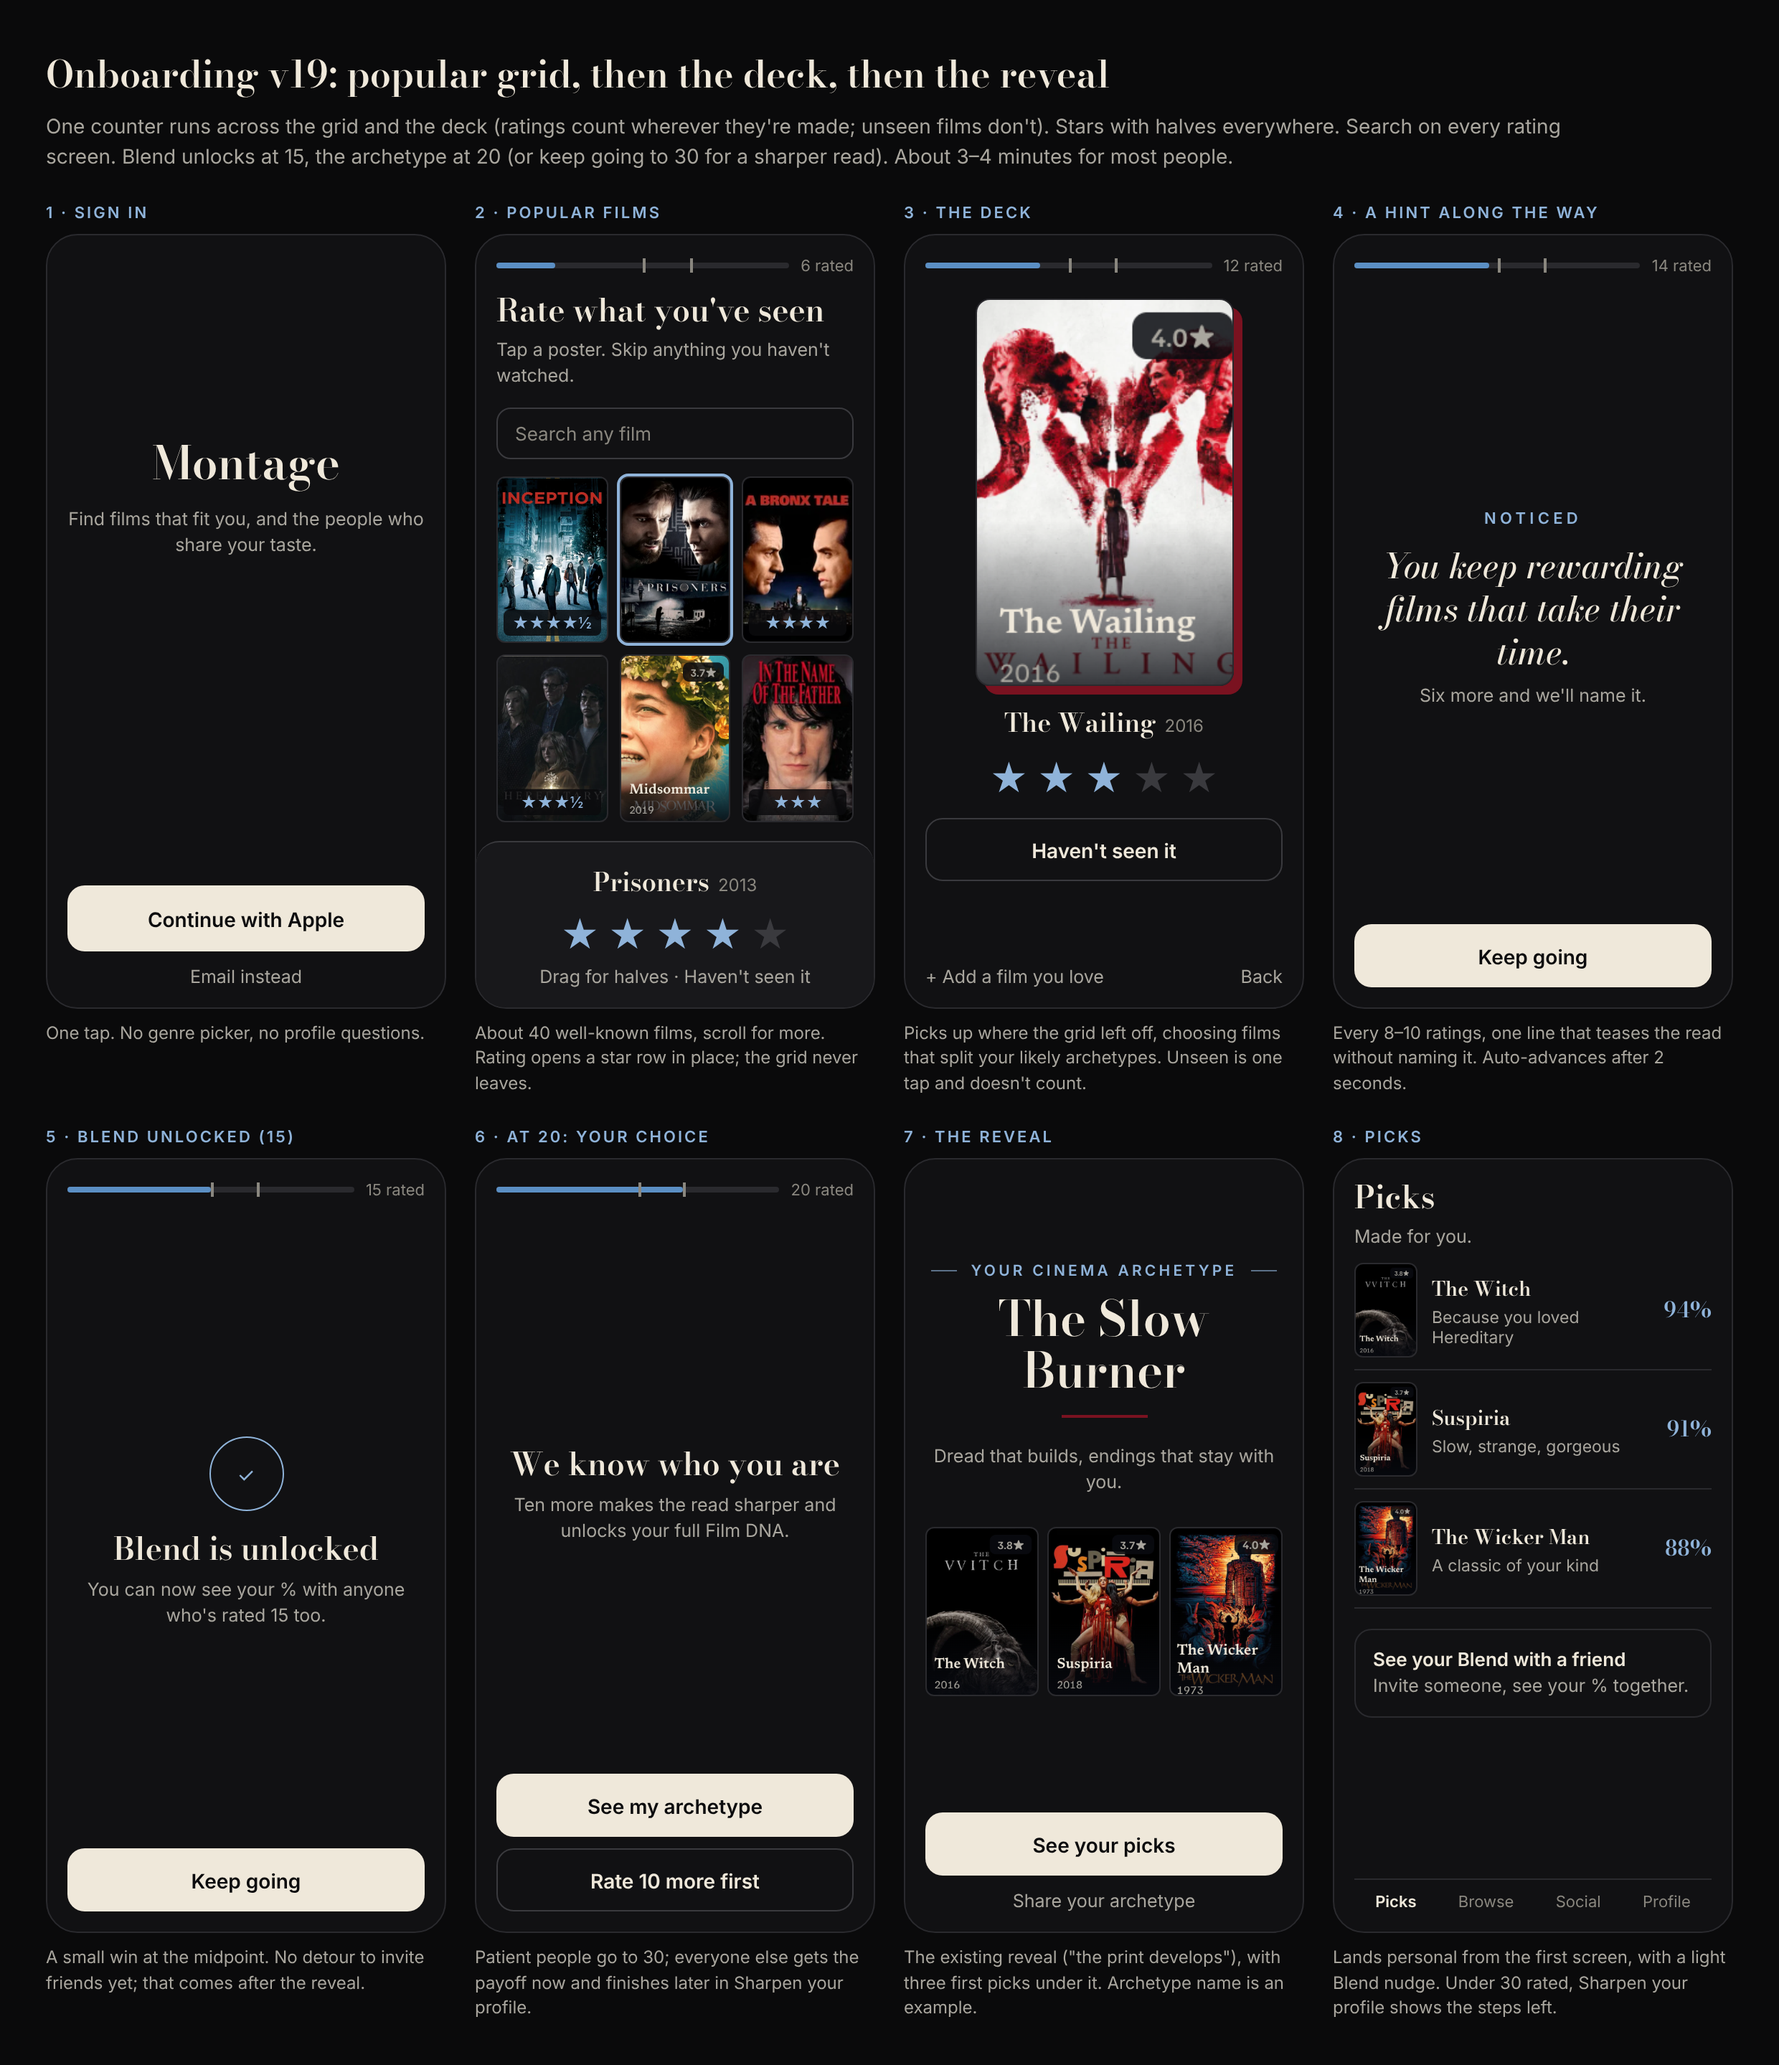
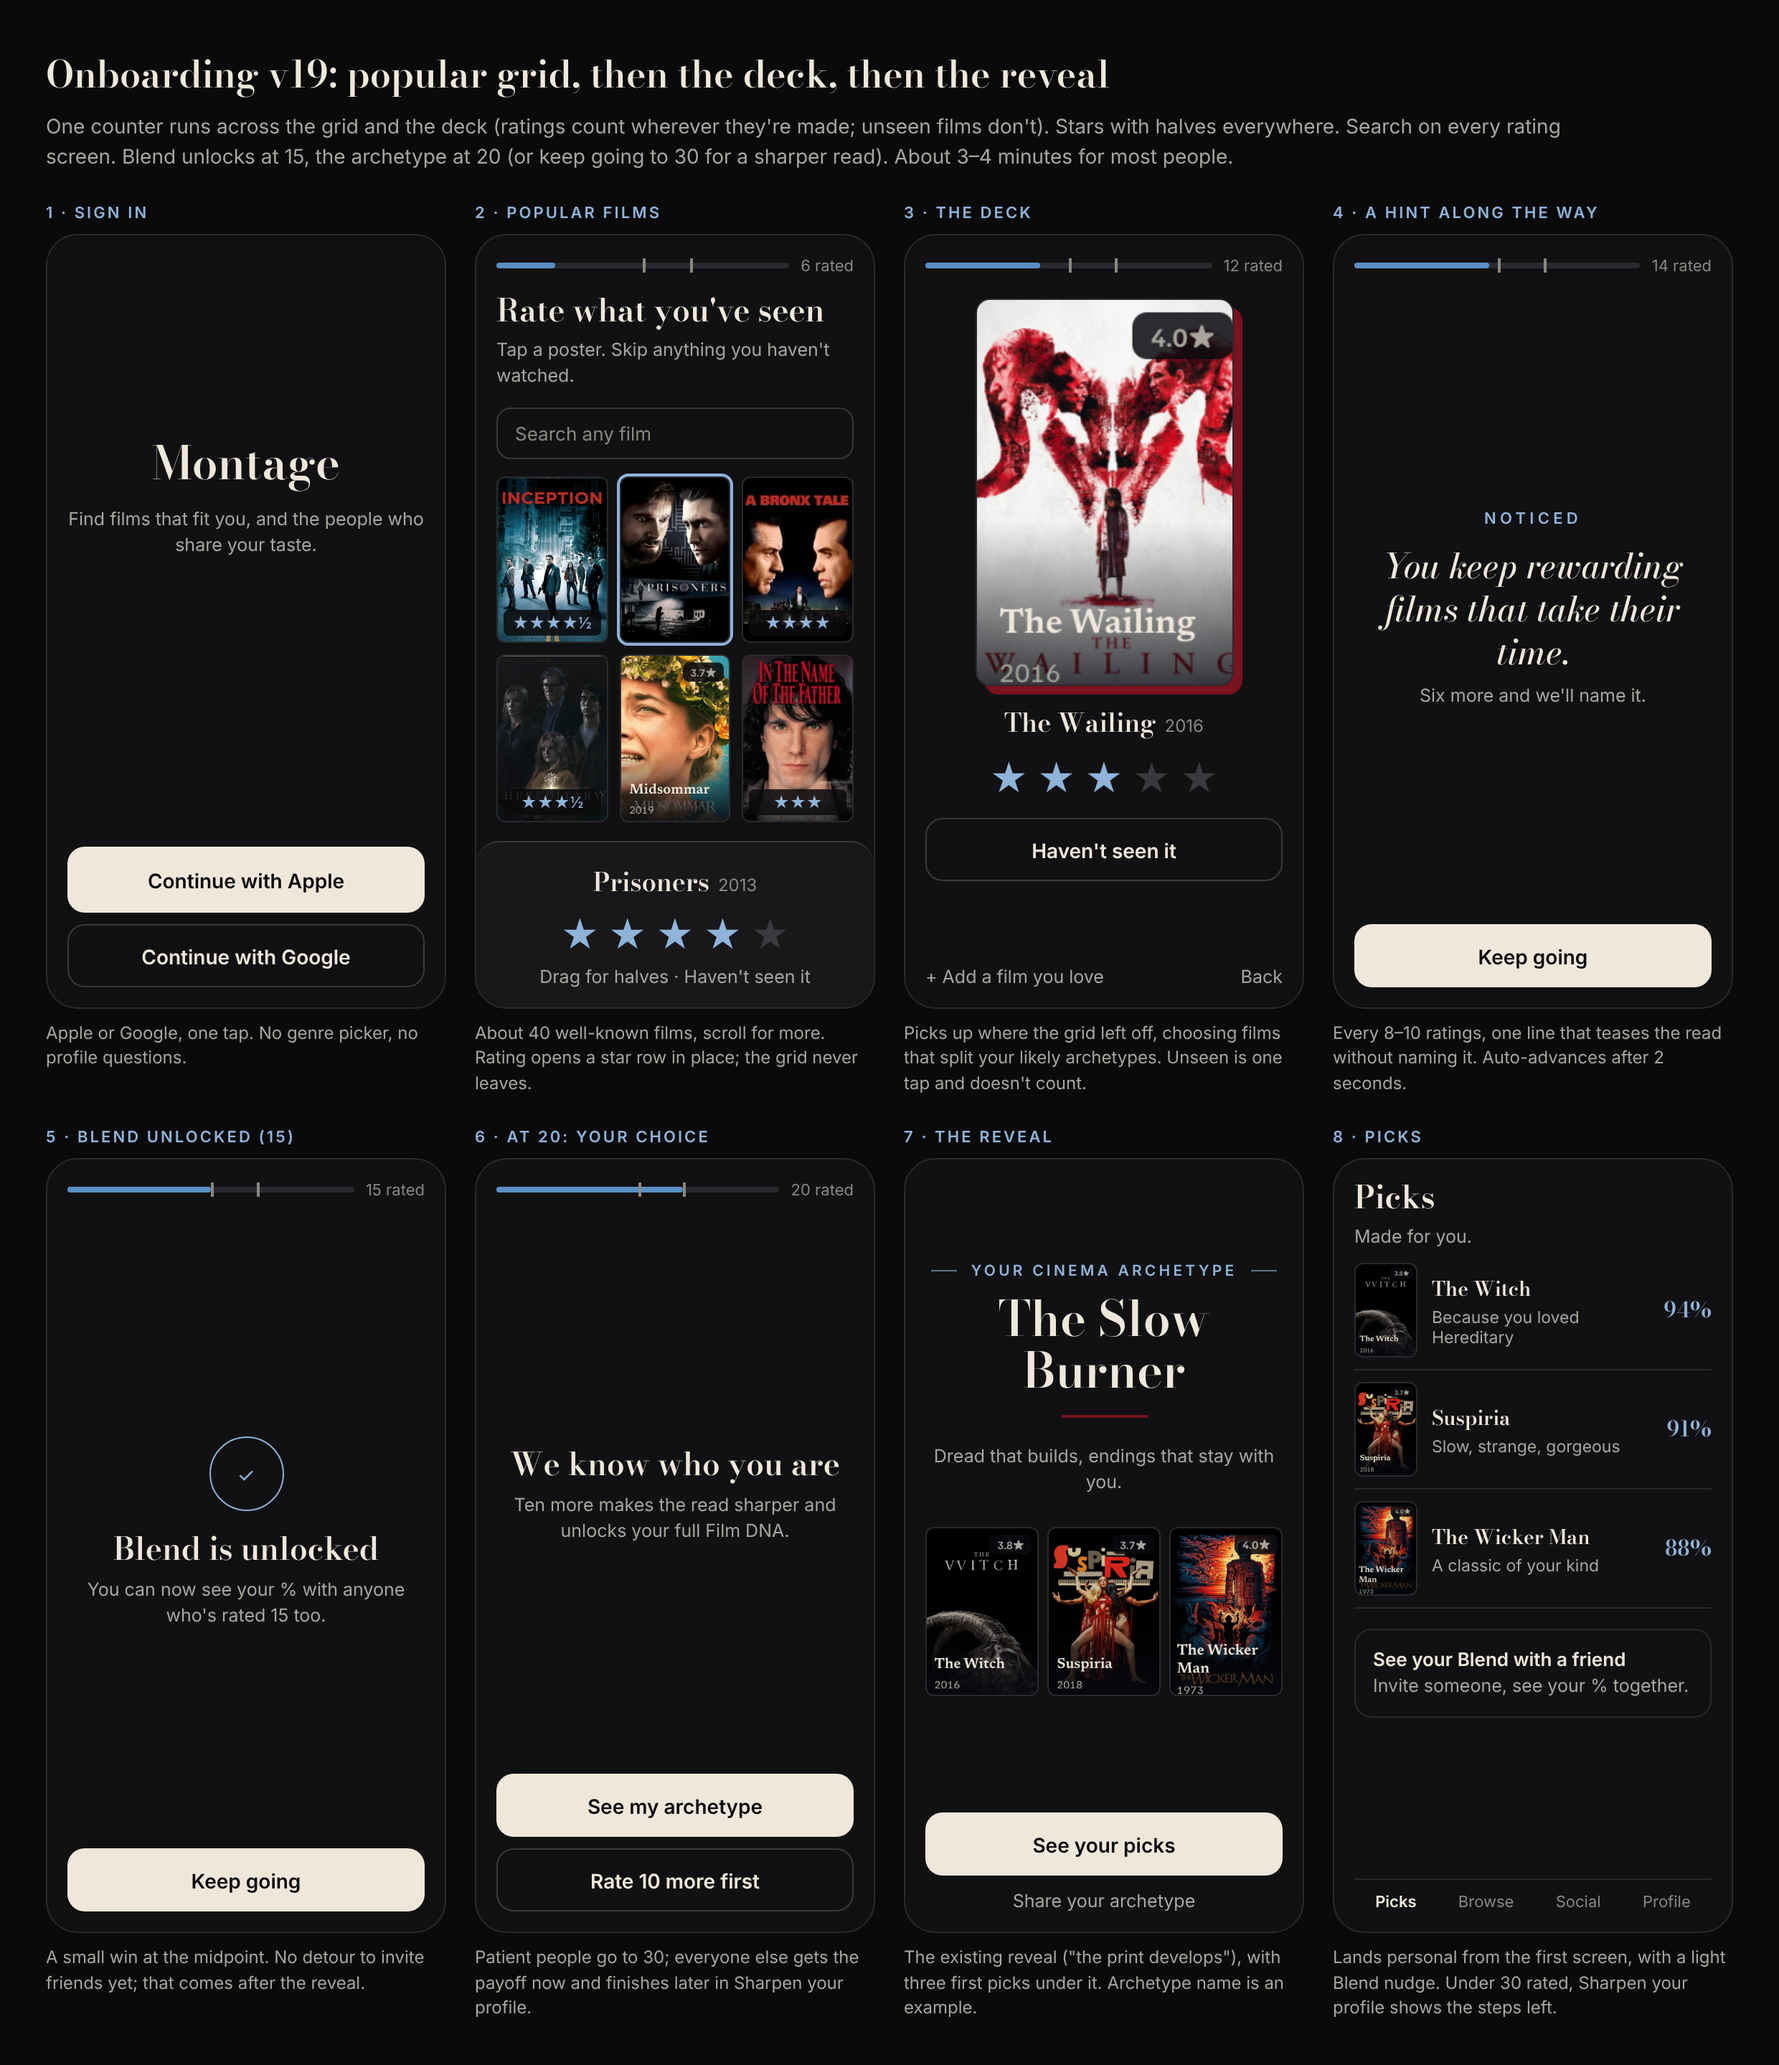
Mock: onboarding v19 sign in with Apple or Google
Claude-Session: https://claude.ai/code/session_013WRDCFXH8nihP92apJAVW7

Changed region(s): [[0.031, 0.402, 0.2484, 0.5257]]

diff --git a/mockups/journeys/onboarding-v19.html b/mockups/journeys/onboarding-v19.html
@@ -39,8 +39,8 @@ h1{font:600 26px 'Bodoni Moda',serif;margin-bottom:6px}.lede{color:#A9A69E;margi
 
 <div><div class="tg">1 · Sign in</div><div class="ph">
  <div class="logo">Montage</div><p class="s" style="text-align:center">Find films that fit you, and the people who share your taste.</p>
- <div class="apple">Continue with Apple</div><div class="q">Email instead</div></div>
-<div class="note">One tap. No genre picker, no profile questions.</div></div>
+ <div class="apple">Continue with Apple</div><div class="gbtn" style="margin-top:8px">Continue with Google</div></div>
+<div class="note">Apple or Google, one tap. No genre picker, no profile questions.</div></div>
 
 <div><div class="tg">2 · Popular films</div><div class="ph">
  <div class="prog"><div class="bar"><i style="width:20%"></i><b style="left:50%"></b><b style="left:66%"></b></div><span>6 rated</span></div>
